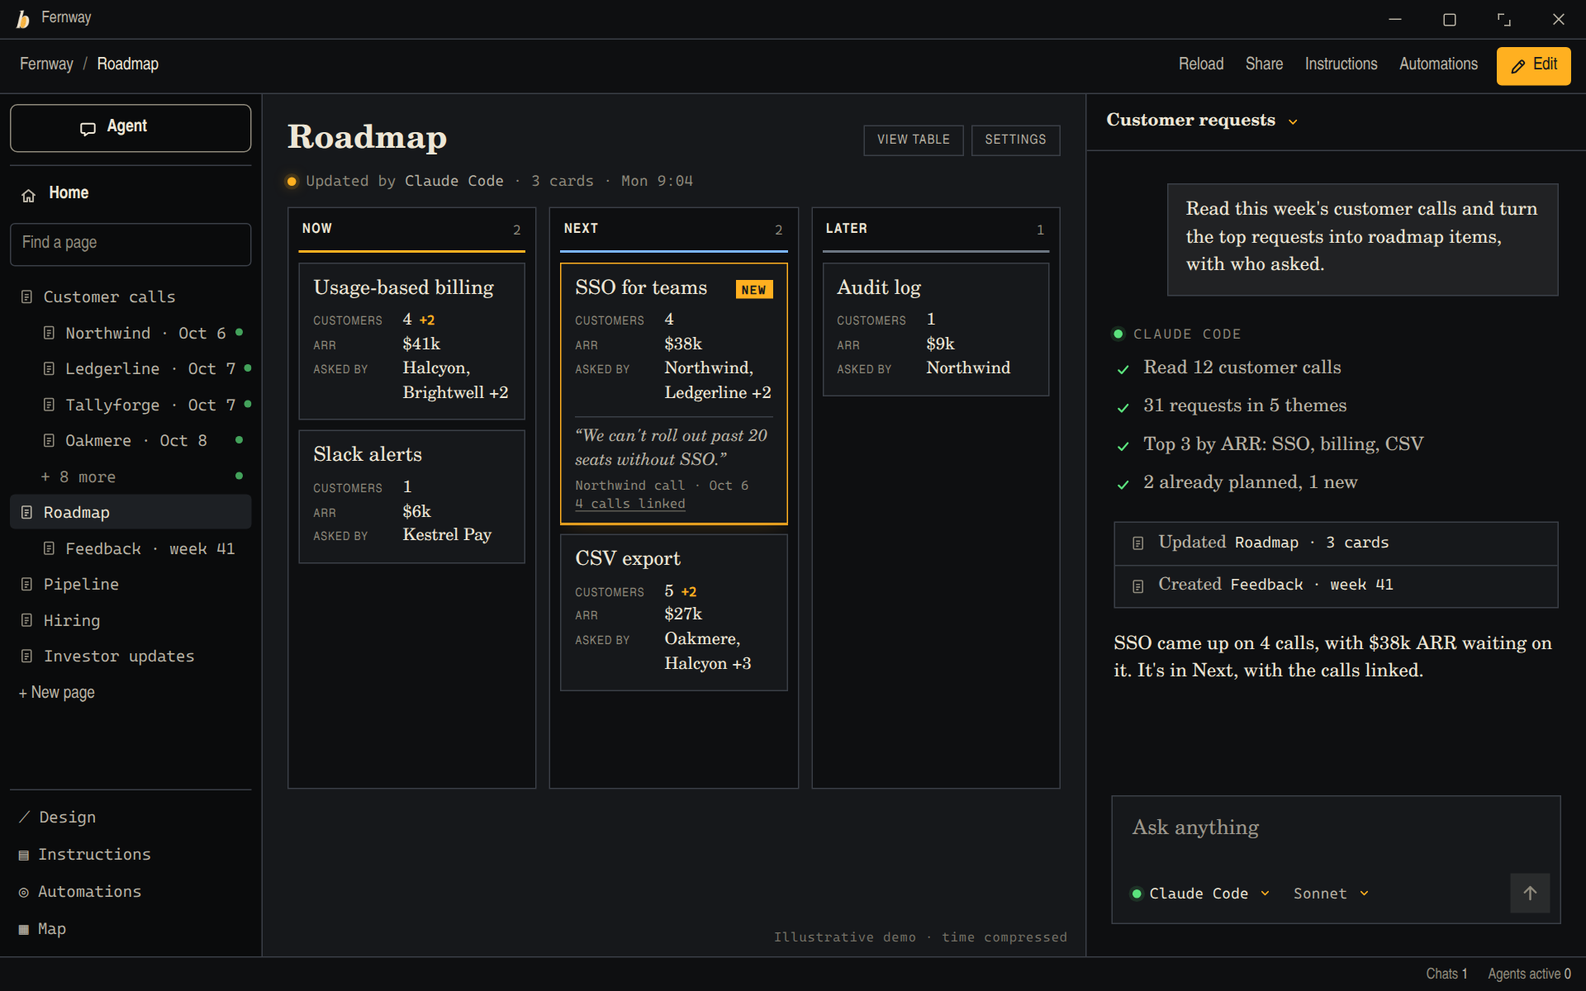
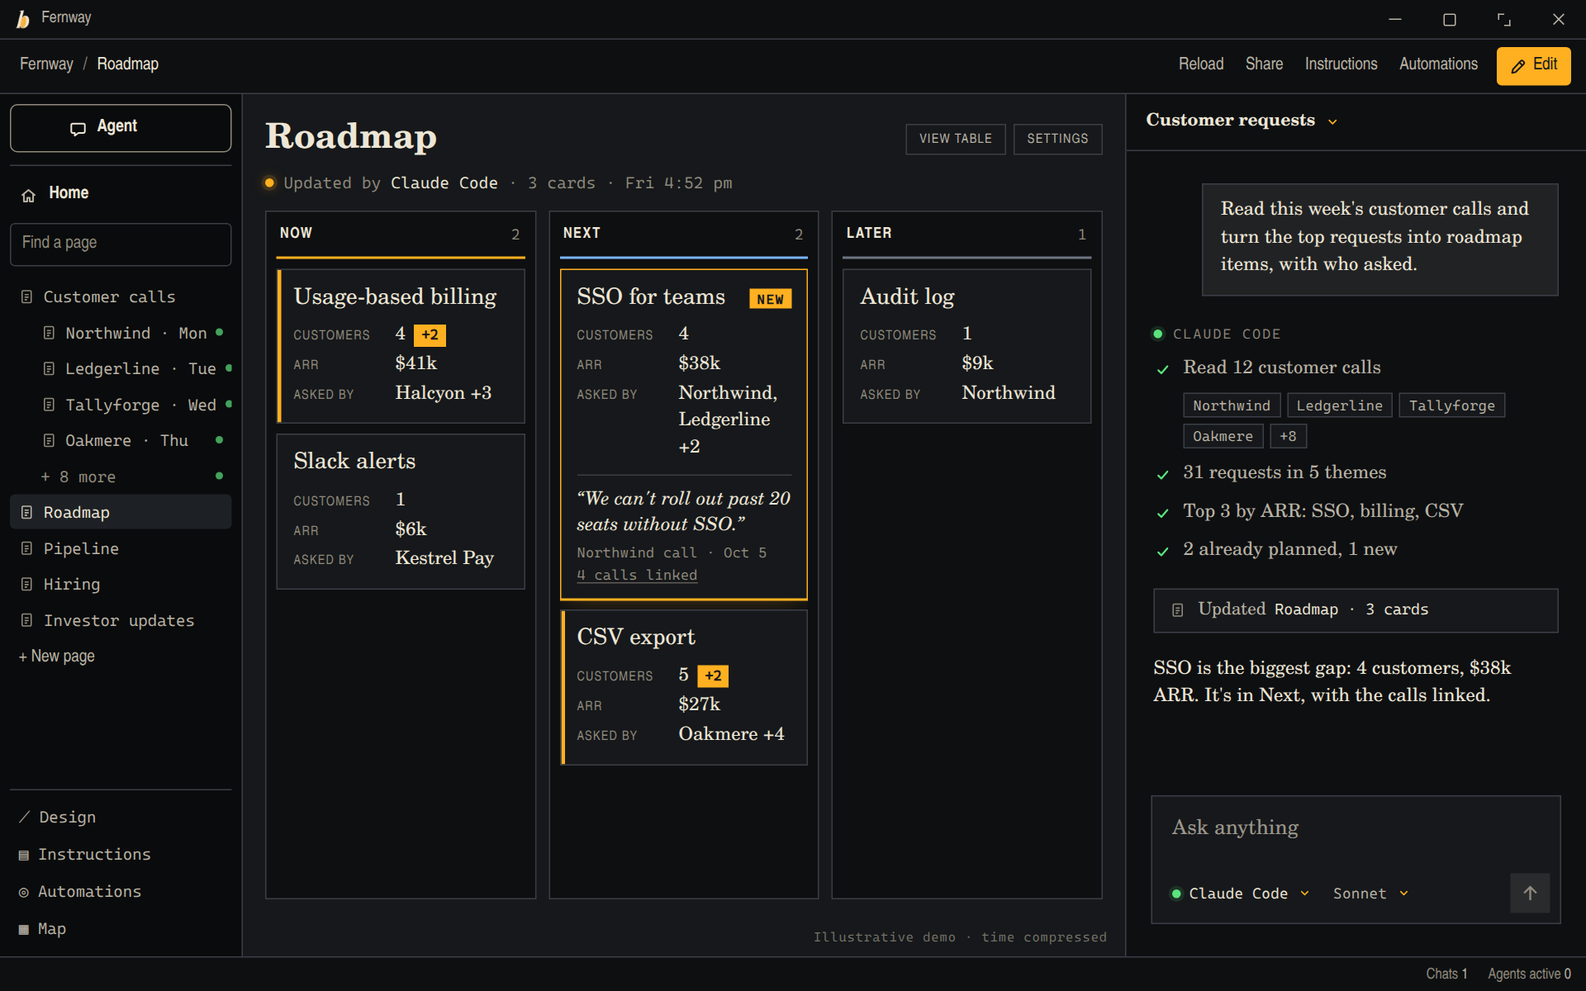
Make the roadmap demo's result readable and its loop clean
A critique at display size found the result smaller than the narration, two
of its three changes invisible, the "your context goes in" moment off to the
side, six changes crammed into 0.9 s, a second destination nobody sees, dates
that contradicted each other, and a loop seam that showed two boards at once.

- The board is the biggest thing on screen: a wider canvas, 18 px card titles
  and 15 px values. Each card that gained customers gets a solid +2 pill and an
  amber edge that stays, so the finished board shows all three changes.
- The calls being read are named in the chat, under the step, as they light
  up in the sidebar, so the proof is where the eye is (and on mobile too).
- The result arrives in order: the new card, then each updated card, then who
  did it, then a shorter closing line. The loop is 9 s so the finished board
  holds for about three seconds.
- The Feedback page and its chat line are gone. The roadmap is the one
  destination.
- The calls run Mon to Thu and the board is updated Friday, in week 41.
- The loop seam dips the changed content out to the bare window, then brings
  in the opening composition. The leads demo gets the same seam.

Claude-Session: https://claude.ai/code/session_01RNceMBdEwHe8AtFgXVB6xG

diff --git a/landing-demo/scenarios/roadmap.js b/landing-demo/scenarios/roadmap.js
@@ -18,7 +18,11 @@
 
 import { seg, show, esc } from "../clock.js";
 
-const T = { typeFrom: 0.15, typeTo: 1.05, send: 1.2, sent: 1.5, result: 4.1 };
+/** The result is staged so the eye can follow it: the new card first, then
+ *  each card that gained customers, then who did it, then the closing line.
+ *  Nine seconds rather than eight, so the finished board holds for three. */
+const T = { typeFrom: 0.15, typeTo: 1.05, send: 1.2, sent: 1.5, result: 4.1, done: 4.55, reply: 5.35 };
+const CSV_AT = 4.95, BILLING_AT = 5.15, SUB_AT = 5.3;
 const R = T.result;
 
 /** The board, before and after. A card's `before` is what the opening frame
@@ -26,18 +30,18 @@ const R = T.result;
 const LANES = [
   { label: "Now", tone: "now", cards: [
     { id: "billing", title: "Usage-based billing",
-      before: { customers: 2, arr: "$24k", asked: "Halcyon, Brightwell" },
-      after: { customers: 4, arr: "$41k", asked: "Halcyon, Brightwell +2" }, delta: "+2" },
+      before: { customers: 2, arr: "$24k", asked: "Halcyon +1" },
+      after: { customers: 4, arr: "$41k", asked: "Halcyon +3" }, delta: "+2" },
     { id: "slack", title: "Slack alerts",
       before: { customers: 1, arr: "$6k", asked: "Kestrel Pay" } },
   ] },
   { label: "Next", tone: "next", cards: [
     { id: "sso", title: "SSO for teams", added: true,
       after: { customers: 4, arr: "$38k", asked: "Northwind, Ledgerline +2" },
-      quote: "We can't roll out past 20 seats without SSO.", who: "Northwind call · Oct 6" },
+      quote: "We can't roll out past 20 seats without SSO.", who: "Northwind call · Oct 5" },
     { id: "csv", title: "CSV export",
-      before: { customers: 3, arr: "$15k", asked: "Oakmere, Halcyon" },
-      after: { customers: 5, arr: "$27k", asked: "Oakmere, Halcyon +3" }, delta: "+2" },
+      before: { customers: 3, arr: "$15k", asked: "Oakmere +2" },
+      after: { customers: 5, arr: "$27k", asked: "Oakmere +4" }, delta: "+2" },
   ] },
   { label: "Later", tone: "later", cards: [
     { id: "audit", title: "Audit log",
@@ -46,46 +50,45 @@ const LANES = [
 ];
 
 const CSS = `
-  .rm{position:absolute; inset:0; padding:22px 20px 40px}
+  .desk .bed{grid-template-columns:196px minmax(0,1fr) 372px}
+  .rm{position:absolute; inset:0; padding:20px 18px 34px}
   .rmhead{display:flex; align-items:center; justify-content:space-between}
-  .rmt{margin:0; font:700 26px/1.2 var(--sheet-face); color:var(--ink)}
+  .rmt{margin:0; font:700 28px/1.2 var(--sheet-face); color:var(--ink)}
   .rmtools{display:flex; gap:6px}
   .rmtools span{padding:5px 10px; border:1px solid var(--stock-edge); font:10.5px var(--ui-face); letter-spacing:.08em; text-transform:uppercase; color:var(--ink-2)}
-  .rmsub{display:flex; align-items:center; gap:8px; height:22px; margin:6px 0 10px; font:12px var(--gauge-face); letter-spacing:.02em; color:var(--ink-3)}
-  .rmsub b{font-weight:400; color:var(--ink-2)}
+  .rmsub{display:flex; align-items:center; gap:8px; height:24px; margin:6px 0 10px; font:13px var(--gauge-face); letter-spacing:.02em; color:var(--ink-3)}
+  .rmsub b{font-weight:400; color:var(--ink)}
   .lanes{display:grid; grid-template-columns:repeat(3, minmax(0,1fr)); gap:10px; align-items:start}
-  .lane{border:1px solid var(--stock-edge); background:var(--stock); padding:0 8px 8px; min-height:470px}
-  .lh{display:flex; justify-content:space-between; align-items:center; height:36px; padding:0 3px; margin-bottom:8px; border-bottom:2px solid var(--nonrepro-t); font:600 11px var(--ui-face); letter-spacing:.08em; text-transform:uppercase; color:var(--ink)}
+  .lane{border:1px solid var(--stock-edge); background:var(--stock); padding:0 8px 8px; min-height:556px}
+  .lh{display:flex; justify-content:space-between; align-items:center; height:38px; padding:0 3px; margin-bottom:8px; border-bottom:2px solid var(--nonrepro-t); font:600 12px var(--ui-face); letter-spacing:.08em; text-transform:uppercase; color:var(--ink)}
   .lh.now{border-bottom-color:var(--led)} .lh.next{border-bottom-color:var(--magenta)}
-  .lh .n{font:400 11px var(--gauge-face); color:var(--ink-3)}
+  .lh .n{font:400 12px var(--gauge-face); color:var(--ink-3)}
   .slot{overflow:hidden}
-  .kc{position:relative; border:1px solid var(--stock-edge); background:var(--paper); padding:10px 11px 10px; margin-bottom:8px; overflow:hidden}
-  .kc.added{border-color:var(--led); box-shadow:0 0 0 1px var(--led), 0 0 18px -6px var(--glow)}
-  .kt{display:flex; align-items:baseline; justify-content:space-between; gap:6px; font:16px/1.3 var(--sheet-face); color:var(--ink); margin-bottom:6px}
-  .tag{flex:none; font:600 9.5px var(--gauge-face); letter-spacing:.12em; padding:2px 5px; background:var(--led); color:var(--on-spot)}
-  .kf{display:grid; grid-template-columns:66px minmax(0,1fr); column-gap:6px; align-items:baseline; font:13.5px/1.45 var(--sheet-face); color:var(--ink)}
-  .kf > span:first-child{font:9.5px var(--ui-face); letter-spacing:.08em; text-transform:uppercase; color:var(--ink-3)}
-  .kf .v{display:inline-flex; align-items:baseline; gap:6px}
-  .delta{font:600 10.5px var(--gauge-face); color:var(--led)}
-  .kq{margin-top:8px; padding-top:7px; border-top:1px solid var(--stock-edge); font:italic 13.5px/1.4 var(--sheet-face); color:var(--ink-2)}
-  .kq small{display:block; margin-top:3px; font:normal 10.5px var(--gauge-face); letter-spacing:.02em; color:var(--ink-3)}
+  .kc{position:relative; border:1px solid var(--stock-edge); background:var(--paper); padding:12px 12px 12px 13px; margin-bottom:8px; overflow:hidden}
+  .kc.added{border-color:var(--led); box-shadow:0 0 0 1px var(--led), 0 0 22px -6px var(--glow)}
+  .kc.moved::before{content:""; position:absolute; left:0; top:0; bottom:0; width:3px; background:var(--led)}
+  .kt{display:flex; align-items:baseline; justify-content:space-between; gap:6px; font:18px/1.25 var(--sheet-face); color:var(--ink); margin-bottom:8px}
+  .tag{flex:none; font:600 10.5px var(--gauge-face); letter-spacing:.12em; padding:2px 6px; background:var(--led); color:var(--on-spot)}
+  .kf{display:grid; grid-template-columns:76px minmax(0,1fr); column-gap:6px; align-items:baseline; font:15px/1.45 var(--sheet-face); color:var(--ink)}
+  .kf + .kf{margin-top:2px}
+  .kf > span:first-child{font:10.5px var(--ui-face); letter-spacing:.08em; text-transform:uppercase; color:var(--ink-3)}
+  .kf .v{display:inline-flex; align-items:baseline; gap:7px; flex-wrap:wrap}
+  .delta{font:600 11.5px/1 var(--gauge-face); padding:3px 6px; background:var(--led); color:var(--on-spot); align-self:center}
+  .kq{margin-top:10px; padding-top:9px; border-top:1px solid var(--stock-edge); font:italic 15px/1.4 var(--sheet-face); color:var(--ink)}
+  .kq small{display:block; margin-top:4px; font:normal 11.5px var(--gauge-face); letter-spacing:.02em; color:var(--ink-3)}
   .kq small u{text-decoration-color:color-mix(in srgb, var(--ink-3) 60%, transparent); text-underline-offset:2px}
 
-  .mob .rm{padding:20px 14px 0; background:var(--paper)}
-  .mob .rmt{font-size:30px}
+  .mob .rm{padding:16px 14px 0; background:var(--paper)}
+  .mob .rmt{font-size:28px}
+  .mob .rmsub{margin:2px 0 8px}
   .mob .rmtools{display:none}
   .mob .lane{min-height:0; padding:0 8px 2px}
   .mob .lh{height:34px}
-  .mob .kt{font-size:18px}
-  .mob .kf{font-size:15px; grid-template-columns:78px minmax(0,1fr)}
-  .mob .kf > span:first-child{font-size:10px}
-  .mob .kq{font-size:15px}
-  .mob .kq small{font-size:11px}
+  .mob .kf{grid-template-columns:84px minmax(0,1fr)}
   .others{display:flex; gap:8px; margin-top:10px}
   .others span{flex:1; display:flex; justify-content:space-between; align-items:center; height:34px; padding:0 10px; border:1px solid var(--stock-edge); border-bottom-width:2px; background:var(--stock); font:600 11px var(--ui-face); letter-spacing:.08em; text-transform:uppercase}
   .others .now{border-bottom-color:var(--led)} .others .later{border-bottom-color:var(--nonrepro-t)}
   .others i{font:400 11px var(--gauge-face); font-style:normal; color:var(--ink-3)}
-  .others .delta{margin-left:auto; margin-right:8px}
 `;
 
 const field = (label, value, key) =>
@@ -99,7 +102,7 @@ function card(c, final = false) {
   const id = c.id;
   const delta = final && c.delta ? ` <span class="delta">${esc(c.delta)}</span>` : "";
   const wrap = c.added && !final;
-  return `${wrap ? `<div class="slot" data-k="slot-${id}">` : ""}<div class="kc${c.added ? " added" : ""}" data-k="card-${id}">
+  return `${wrap ? `<div class="slot" data-k="slot-${id}">` : ""}<div class="kc${c.added ? " added" : ""}${final && c.delta ? " moved" : ""}" data-k="card-${id}">
     <div class="kt"><span>${esc(c.title)}</span>${c.added ? `<span class="tag">NEW</span>` : ""}</div>
     ${field("Customers", String(s.customers), c.delta && !final ? `${id}-customers` : "").replace("</span></div>", delta + "</span></div>")}
     ${field("ARR", s.arr, c.delta ? `${id}-arr` : "")}
@@ -145,9 +148,9 @@ function draw(t, k, layout) {
   const after = t >= R;
 
   // the line under the title says who changed the board, and when
-  const subAt = R + 0.9;
+  const subAt = SUB_AT;
   if (k.sub) k.sub.innerHTML = t >= subAt
-    ? `<i class="led lit"></i><span>Updated by <b>Claude Code</b> · 3 cards · Mon 9:04</span>`
+    ? `<i class="led lit"></i><span>Updated by <b>Claude Code</b> · 3 cards · Fri 4:52 pm</span>`
     : `<span>Fernway · this quarter</span>`;
   if (t >= subAt) show(k.sub, seg(t, subAt, subAt + 0.3));
   else show(k.sub, 1);
@@ -165,20 +168,26 @@ function draw(t, k, layout) {
   // the cards that gained customers
   for (const lane of LANES) for (const c of lane.cards) {
     if (!c.delta) continue;
-    const at = R + (c.id === "csv" ? 0.55 : 0.7);
+    const at = c.id === "csv" ? CSV_AT : BILLING_AT;
     const now = t >= at ? c.after : c.before;
     const cust = k[`${c.id}-customers`], arr = k[`${c.id}-arr`], asked = k[`${c.id}-asked`];
     if (cust) cust.innerHTML = esc(String(now.customers)) + (t >= at ? ` <span class="delta">${esc(c.delta)}</span>` : "");
     if (arr) arr.textContent = now.arr;
     if (asked) asked.textContent = now.asked;
-    const flash = t >= at ? 1 - seg(t, at, at + 0.6) : 0;
+    // a ring that fades to the amber edge the card keeps, so the finished
+    // board still says which cards the turn changed
+    const flash = t >= at ? 1 - seg(t, at, at + 0.9) : 0;
     const el = k[`card-${c.id}`];
-    if (el) el.style.boxShadow = flash > 0.01 ? `0 0 0 1px color-mix(in srgb, var(--led) ${(flash * 100).toFixed(0)}%, transparent)` : "";
+    if (el) {
+      el.classList.toggle("moved", t >= at);
+      el.style.boxShadow = flash > 0.01 ? `0 0 0 1px color-mix(in srgb, var(--led) ${(flash * 100).toFixed(0)}%, transparent)` : "";
+    }
   }
 }
 
 export const roadmap = {
   title: "Roadmap",
+  duration: 9,
   workspace: "Fernway",
   T,
   prompt: {
@@ -189,30 +198,30 @@ export const roadmap = {
   crumbs: [{ text: "Fernway" }, { text: "Roadmap" }],
   rail: [
     { name: "Customer calls" },
-    { name: "Northwind · Oct 6", depth: 1, read: 1.6 },
-    { name: "Ledgerline · Oct 7", depth: 1, read: 1.75 },
-    { name: "Tallyforge · Oct 7", depth: 1, read: 1.9 },
-    { name: "Oakmere · Oct 8", depth: 1, read: 2.05 },
+    { name: "Northwind · Mon", depth: 1, read: 1.6 },
+    { name: "Ledgerline · Tue", depth: 1, read: 1.75 },
+    { name: "Tallyforge · Wed", depth: 1, read: 1.9 },
+    { name: "Oakmere · Thu", depth: 1, read: 2.05 },
     { name: "+ 8 more", depth: 1, read: 2.2, plain: true },
     { name: "Roadmap", here: [0, 99] },
-    { name: "Feedback · week 41", depth: 1, appear: R + 0.15 },
     { name: "Pipeline" },
     { name: "Hiring" },
     { name: "Investor updates" },
   ],
   steps: [
-    { at: 1.5, done: 2.3, live: "Reading 12 customer calls…", finished: "Read 12 customer calls" },
+    { at: 1.5, done: 2.3, live: "Reading 12 customer calls…", finished: "Read 12 customer calls",
+      subs: [{ at: 1.6, text: "Northwind" }, { at: 1.75, text: "Ledgerline" }, { at: 1.9, text: "Tallyforge" },
+        { at: 2.05, text: "Oakmere" }, { at: 2.2, text: "+8" }] },
     { at: 2.3, finished: "31 requests in 5 themes" },
     { at: 2.7, finished: "Top 3 by ARR: SSO, billing, CSV" },
     { at: 3.1, done: R, live: "Checking the roadmap…", finished: "2 already planned, 1 new" },
   ],
   changed: [
-    { at: R + 0.15, verb: "Updated", what: "Roadmap · 3 cards" },
-    { at: R + 0.3, verb: "Created", what: "Feedback · week 41" },
+    { at: R + 0.2, verb: "Updated", what: "Roadmap · 3 cards" },
   ],
-  reply: "SSO came up on 4 calls, with $38k ARR waiting on it. It's in Next, with the calls linked.",
+  reply: "SSO is the biggest gap: 4 customers, $38k ARR. It's in Next, with the calls linked.",
   css: CSS,
   canvas: { desktop: desktop(), mobile: mobile() },
   draw,
-  alt: "Biom, with a Roadmap board and an agent chat beside it. The request — read this week's customer calls and turn the top requests into roadmap items, with who asked — is sent; the agent reads twelve customer call pages in the workspace, finds 31 requests in 5 themes, ranks the top three by revenue, and updates the board in place: a new card, SSO for teams, lands in Next with four customers, $38k ARR, who asked and a quote from a call, and two existing cards gain customers. Illustrative demo, time compressed.",
+  alt: "Biom, with a Roadmap board and an agent chat beside it. The request — read this week's customer calls and turn the top requests into roadmap items, with who asked — is sent; the agent reads twelve customer call pages in the workspace — Northwind, Ledgerline, Tallyforge, Oakmere and eight more, finds 31 requests in 5 themes, ranks the top three by revenue, and updates the board in place: a new card, SSO for teams, lands in Next with four customers, $38k ARR, who asked and a quote from a call, and two existing cards gain customers. Illustrative demo, time compressed.",
 };

diff --git a/landing-demo/stage.html b/landing-demo/stage.html
@@ -118,6 +118,8 @@
   .chg .glyph{width:13px; height:13px; color:var(--ink-3)}
   .chg .cw{display:flex; align-items:baseline; gap:7px}
   .chg b{font-weight:400; font-family:var(--gauge-face); font-size:12.5px; color:var(--ink)}
+  .subs{display:flex; flex-wrap:wrap; gap:5px; margin:-1px 0 3px 24px}
+  .subs span{padding:2px 7px; border:1px solid var(--stock-edge); background:var(--stock-hi); font:11.5px var(--gauge-face); letter-spacing:.02em; color:var(--ink-2)}
   .reply{margin-top:12px; font:15px/1.5 var(--sheet-face); color:var(--ink)}
 
   .dock{position:absolute; left:20px; right:20px; bottom:26px}
@@ -207,6 +209,12 @@
   const layout = q.get("layout") === "mobile" ? "mobile" : "desktop";
   const S = SCENARIOS[q.get("scenario")] || SCENARIOS.roadmap;
   const T = S.T, R = T.result;
+  /** A scenario may run longer than the default, and the loop seam follows it. */
+  const LENGTH = S.duration || DURATION;
+  const SEAM = S.duration ? S.duration - (DURATION - LOOP_FROM) : LOOP_FROM;
+  /** When the agent's turn ends and when its closing words arrive. */
+  const DONE = T.done ?? R + 0.45;
+  const REPLY = T.reply ?? R + 0.45;
   const AGENT = "Claude Code";
   const win = document.getElementById(layout === "mobile" ? "mob" : "desk");
   win.hidden = false;
@@ -239,7 +247,7 @@
     <div class="uw" data-k="uw"><div class="u">${esc(S.prompt.head + S.prompt.tail)}</div></div>
     <div class="turn" data-k="turn">
       <div class="who"><i class="led" data-k="whoLed"></i><span>${AGENT}</span></div>
-      ${S.steps.map((_, i) => `<div class="step" data-k="step-${i}"><span class="mark"></span><span class="txt"></span></div>`).join("")}
+      ${S.steps.map((s, i) => `<div class="step" data-k="step-${i}"><span class="mark"></span><span class="txt"></span></div>${s.subs ? `<div class="subs">${s.subs.map((u, j) => `<span data-k="sub-${i}-${j}">${esc(u.text)}</span>`).join("")}</div>` : ""}`).join("")}
       ${layout === "desktop" ? `<div class="changed" data-k="changed">${S.changed.map((c, i) =>
         `<div class="chg" data-k="chg-${i}"><i class="glyph page"></i><span class="cw">${esc(c.verb)} <b>${esc(c.what)}</b></span></div>`).join("")}</div>
       <div class="reply" data-k="reply">${esc(S.reply)}</div>` : ""}
@@ -256,7 +264,7 @@
 
   /** Draws the frame at `t` seconds. Pure: the same t draws the same frame. */
   function draw(t) {
-    const working = t >= T.send && t < R + 0.45;
+    const working = t >= T.send && t < DONE;
 
     // the input: the head is there from the first frame, the tail types in
     const inInput = t < T.send + 0.08;
@@ -285,11 +293,13 @@
       el.classList.toggle("live", !!live);
       el.firstChild.innerHTML = live ? `<span class="leds3">${dots(t)}</span>` : `<i class="glyph check"></i>`;
       el.lastChild.textContent = live ? s.live : s.finished;
+      // what a step is working through, each name staying once it has come
+      (s.subs || []).forEach((u, j) => { const o = seg(t, u.at, u.at + 0.2); show(k[`sub-${i}-${j}`], o); });
     });
     if (k.changed) {
       show(k.changed, seg(t, S.changed[0].at, S.changed[0].at + 0.25));
       S.changed.forEach((c, i) => { const o = seg(t, c.at, c.at + 0.25); k[`chg-${i}`].style.display = o > 0 ? "" : "none"; show(k[`chg-${i}`], o); });
-      show(k.reply, seg(t, R + 0.45, R + 0.75));
+      show(k.reply, seg(t, REPLY, REPLY + 0.3));
     }
 
     // the rail: rows the agent reads light as it reads them, rows it makes arrive
@@ -317,18 +327,22 @@
     S.draw(t, k, layout);
   }
 
-  /** The loop seam: the last 0.2s cross-fades the whole window back to t=0,
-   *  so the last frame leads into the first. A copy of the window, drawn at
-   *  t=0, is laid over it and faded in. */
+  /** The loop seam. Over the last ~0.45s what the turn changed — the canvas,
+   *  the thread, the input — dips out to the bare window, and then a copy of the
+   *  window drawn at t=0 fades in over it, so the last frame leads into the
+   *  first without two states of the page ever showing at once. */
   draw(0);
   const ghost = /** @type {HTMLElement} */ (win.cloneNode(true));
   ghost.removeAttribute("id");
   ghost.style.cssText = "position:absolute; pointer-events:none";
+  const dipped = [k.canvas, k.log, k.ta].filter(Boolean);
 
   window.renderAt = (t) => {
-    t = ((t % DURATION) + DURATION) % DURATION;
+    t = ((t % LENGTH) + LENGTH) % LENGTH;
     draw(t);
-    const fade = seg(t, LOOP_FROM, DURATION);
+    const out = seg(t, SEAM - 0.25, SEAM);
+    for (const el of dipped) el.style.opacity = out > 0 ? String(1 - out) : "";
+    const fade = seg(t, SEAM, LENGTH);
     if (fade > 0) {
       if (!ghost.isConnected) document.body.appendChild(ghost);
       const r = win.getBoundingClientRect();
@@ -338,7 +352,7 @@
   };
 
   window.stageSize = () => { const r = win.getBoundingClientRect(); return { x: r.left, y: r.top, width: r.width, height: r.height }; };
-  window.scenario = { alt: S.alt, title: S.title };
+  window.scenario = { alt: S.alt, title: S.title, length: LENGTH };
   await document.fonts.ready;
   window.renderAt(Number(q.get("t") || 0));
   window.stageReady = true;

diff --git a/landing-demo/out/preview-roadmap.html b/landing-demo/out/preview-roadmap.html
@@ -57,7 +57,7 @@
       <source media="(prefers-reduced-motion: reduce)" srcset="demo-roadmap-desktop-still.png" width="1920" height="1200">
       <source media="(max-width: 700px)" srcset="demo-roadmap-mobile.gif" width="780" height="1240">
       <img src="demo-roadmap-desktop.gif" width="1920" height="1200" loading="lazy" decoding="async"
-           alt="Biom, with a Roadmap board and an agent chat beside it. The request — read this week's customer calls and turn the top requests into roadmap items, with who asked — is sent; the agent reads twelve customer call pages in the workspace, finds 31 requests in 5 themes, ranks the top three by revenue, and updates the board in place: a new card, SSO for teams, lands in Next with four customers, $38k ARR, who asked and a quote from a call, and two existing cards gain customers. Illustrative demo, time compressed.">
+           alt="Biom, with a Roadmap board and an agent chat beside it. The request — read this week's customer calls and turn the top requests into roadmap items, with who asked — is sent; the agent reads twelve customer call pages in the workspace — Northwind, Ledgerline, Tallyforge, Oakmere and eight more, finds 31 requests in 5 themes, ranks the top three by revenue, and updates the board in place: a new card, SSO for teams, lands in Next with four customers, $38k ARR, who asked and a quote from a call, and two existing cards gain customers. Illustrative demo, time compressed.">
     </picture>
   </figure>
 </section>

diff --git a/landing-demo/README.md b/landing-demo/README.md
@@ -1,6 +1,6 @@
 # Landing page demo
 
-Eight-second GIFs for the section directly after the hero on biom.dev. Each
+Short looping GIFs (8–9 s) for the section directly after the hero on biom.dev. Each
 one plays a single request in Biom's window: the prompt is sent from the chat
 panel, the agent's working steps stay on screen, and the result lands in the
 workspace. The GIFs play and loop on their own and have no controls.
@@ -14,7 +14,7 @@ so the window wears the product's real type and palette.
 
 | Name | What it shows |
 |---|---|
-| `roadmap` | **The recommended one.** On Fernway's Roadmap board, the founder asks the agent to read this week's customer calls. The call pages in the sidebar light up as they are read. The agent finds 31 requests in 5 themes and ranks the top three by ARR. It then updates the board in place: *SSO for teams* lands in Next with four customers, $38k ARR, who asked, a quote and the calls linked, and two existing cards gain customers. |
+| `roadmap` | **The recommended one, 9 s.** On Fernway's Roadmap board, the founder asks the agent to read this week's customer calls. The call pages light up in the sidebar as they are read, and their names gather under the step in the chat. The agent finds 31 requests in 5 themes and ranks the top three by ARR. It then updates the board in place, one change at a time: *SSO for teams* lands in Next with four customers, $38k ARR, who asked, a quote and the calls linked; then two existing cards gain customers, each marked with a +2 and an amber edge that stays. |
 | `leads-scheduled` | The first demo: a Fintech leads page appears under Leads, saved as an automation for "Every Monday". |
 | `leads-accurate` | The same demo, but it claims only what the build does. Biom has no scheduler, so this version shows "Run again from Automations". |
 
@@ -58,6 +58,8 @@ To add a scenario, write `scenarios/<name>.js` exporting the same shape as
   (`paletteuse diff_mode=rectangle`).
 - `mpdecimate` with zero tolerance drops frames identical to the one before.
   The GIF keeps 1/15 s timestamps, so the final hold is a single frame with a
-  long delay, and the total length is exactly 8.00 s.
-- The loop seam is a 0.2 s cross-fade into a copy of the window drawn at
-  `t = 0`.
+  long delay, and the total length is exactly the scenario's (8.00 s by
+  default, or its `duration`).
+- The loop seam dips what the turn changed (the canvas, the thread, the
+  input) out to the bare window over 0.25 s, then fades in a copy of the
+  window drawn at `t = 0`. Two states of the page never show at once.
